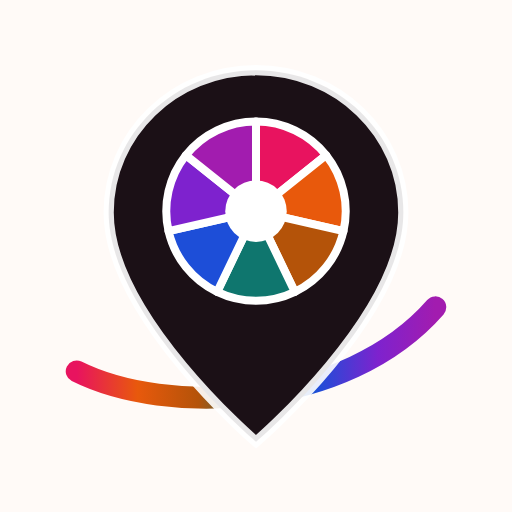
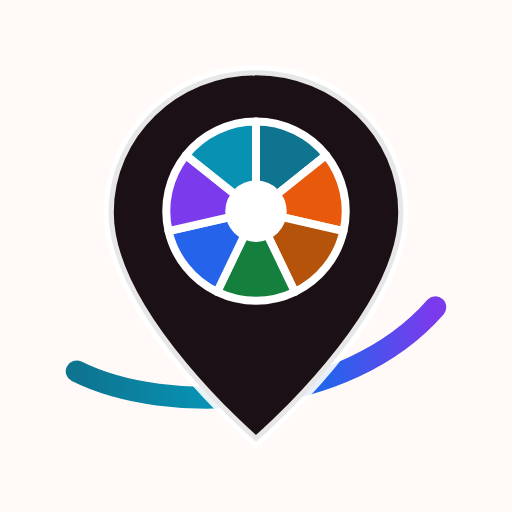
Replace the red-gradient palette with teal and sky blue.
The hot pink was doing too much: links, buttons, headings, eyebrows and
the Health category all leaned on it, which made a place for choosing
feel loud. The interface now anchors on teal (#0E7490) with a sky-blue
companion (#2D9CB-adjacent #1D6FA8 in the button gradient), a cool
neutral line colour and a pale blue tint, on the same warm off-white.

Health becomes teal, Books moves to green, Beauty and Tech take calmer
violets and blues, and Accommodation is cyan. Button labels switch to
an --on-brand variable so both themes clear 4.5:1 contrast. The logo,
icons, share card, manifest theme colour and map "you are here" marker
follow the new palette.

diff --git a/assets/styles.css b/assets/styles.css
@@ -3,11 +3,16 @@
    Display: Sora · Text: Plus Jakarta Sans
    ============================================================ */
 :root{
-  --bg:#FFFAF7; --bg-2:#FFF3EC; --surface:#FFFFFF; --surface-2:#FFF7F3;
-  --fg:#22121A; --fg-2:#3B2530; --muted:#6E5560; --line:#F1DCD4; --line-2:#E7CBC1;
-  --pink:#E8135F; --pink-deep:#B90B4A; --orange:#FF6200; --yellow:#FFC400; --soft:#FFEDE3;
-  --ok:#0B7A46; --ok-soft:#DCF6E8; --warn:#A5560B; --warn-soft:#FFEFD2; --off:#7C6470;
-  --grad:linear-gradient(115deg,#FF1A6C,#FF6200 58%,#FFC400);
+  /* Palette: teal anchor with a sky-blue companion, on a warm off-white.
+     No red or hot pink anywhere in the interface — the warmth now comes
+     from the background and from Food and Home in the category colours. */
+  --bg:#FFFAF7; --bg-2:#F1F8FA; --surface:#FFFFFF; --surface-2:#F3F9FA;
+  --fg:#22121A; --fg-2:#31454E; --muted:#587480; --line:#DCEAEE; --line-2:#C3DBE2;
+  --pink:#0E7490; --pink-deep:#0A5B72; --orange:#2D9CDB; --yellow:#BFE3F0; --soft:#E4F2F6;
+  --ok:#0B7A46; --ok-soft:#DCF6E8; --warn:#A5560B; --warn-soft:#FFEFD2; --off:#5F7A84;
+  /* Both ends of the gradient carry white text at 5:1 or better. */
+  --grad:linear-gradient(115deg,#0E7490,#1D6FA8);
+  --on-brand:#FFFFFF;
   --display:'Outfit','Segoe UI',system-ui,sans-serif;
   --body:'Plus Jakarta Sans','Segoe UI',system-ui,sans-serif;
   --mono:ui-monospace,SFMono-Regular,Menlo,Consolas,monospace;
@@ -18,18 +23,22 @@
   color-scheme:light;
 }
 @media (prefers-color-scheme:dark){:root:not([data-theme="light"]){
-  --bg:#150C11; --bg-2:#1D1118; --surface:#221520; --surface-2:#2A1A24;
-  --fg:#FBEFE9; --fg-2:#F0DCD3; --muted:#C0A5AF; --line:#3A2530; --line-2:#4A303C;
-  --pink:#FF5C93; --pink-deep:#FF7FA9; --soft:#301E28;
-  --ok:#57E39B; --ok-soft:#12321F; --warn:#F5B35A; --warn-soft:#3B2A15; --off:#B79AA5;
+  --bg:#0C1418; --bg-2:#111C21; --surface:#16232A; --surface-2:#1C2C34;
+  --fg:#ECF5F7; --fg-2:#D5E6EA; --muted:#9FB6C0; --line:#273B44; --line-2:#33505B;
+  --pink:#5AC4DC; --pink-deep:#8AD9EC; --soft:#12262D;
+  --ok:#57E39B; --ok-soft:#12321F; --warn:#F5B35A; --warn-soft:#3B2A15; --off:#A3BCC5;
+  --grad:linear-gradient(115deg,#2A9BB4,#4FA8E8);
+  --on-brand:#06222B;
   --sh-1:0 1px 2px rgba(0,0,0,.4),0 8px 24px -12px rgba(0,0,0,.6);
   --sh-2:0 2px 4px rgba(0,0,0,.4),0 18px 40px -18px rgba(0,0,0,.7);
   color-scheme:dark}}
 :root[data-theme="dark"]{
-  --bg:#150C11; --bg-2:#1D1118; --surface:#221520; --surface-2:#2A1A24;
-  --fg:#FBEFE9; --fg-2:#F0DCD3; --muted:#C0A5AF; --line:#3A2530; --line-2:#4A303C;
-  --pink:#FF5C93; --pink-deep:#FF7FA9; --soft:#301E28;
-  --ok:#57E39B; --ok-soft:#12321F; --warn:#F5B35A; --warn-soft:#3B2A15; --off:#B79AA5;
+  --bg:#0C1418; --bg-2:#111C21; --surface:#16232A; --surface-2:#1C2C34;
+  --fg:#ECF5F7; --fg-2:#D5E6EA; --muted:#9FB6C0; --line:#273B44; --line-2:#33505B;
+  --pink:#5AC4DC; --pink-deep:#8AD9EC; --soft:#12262D;
+  --ok:#57E39B; --ok-soft:#12321F; --warn:#F5B35A; --warn-soft:#3B2A15; --off:#A3BCC5;
+  --grad:linear-gradient(115deg,#2A9BB4,#4FA8E8);
+  --on-brand:#06222B;
   --sh-1:0 1px 2px rgba(0,0,0,.4),0 8px 24px -12px rgba(0,0,0,.6);
   --sh-2:0 2px 4px rgba(0,0,0,.4),0 18px 40px -18px rgba(0,0,0,.7);
   color-scheme:dark}
@@ -82,7 +91,7 @@ strong{font-weight:700}
 .row{display:flex;flex-wrap:wrap;gap:.7rem;align-items:center}
 .grad-text{background:var(--grad);-webkit-background-clip:text;background-clip:text;color:transparent}
 /* the wordmark carries all six category colours, in wheel order */
-.brand .grad-text{background:linear-gradient(115deg,#E8135F 0%,#E8590C 24%,#B45309 44%,#0F766E 64%,#1D4ED8 82%,#7E22CE 100%);-webkit-background-clip:text;background-clip:text;color:transparent}
+.brand .grad-text{background:linear-gradient(115deg,#0E7490 0%,#E8590C 17%,#B45309 34%,#15803D 50%,#0891B2 66%,#2563EB 83%,#7C3AED 100%);-webkit-background-clip:text;background-clip:text;color:transparent}
 .h-sm{font-size:1.15rem;margin:2rem 0 .2rem}
 
 /* ---------- buttons / fields ---------- */
@@ -96,8 +105,8 @@ strong{font-weight:700}
 }
 .btn:hover{transform:translateY(-1px)}
 .btn:active{transform:none}
-.btn-primary{background:var(--grad);color:#2A1018;box-shadow:0 6px 18px -8px rgba(232,19,95,.65)}
-.btn-primary:hover{box-shadow:0 12px 26px -10px rgba(232,19,95,.75)}
+.btn-primary{background:var(--grad);color:var(--on-brand);box-shadow:0 6px 18px -8px rgba(14,116,144,.5)}
+.btn-primary:hover{box-shadow:0 12px 26px -10px rgba(14,116,144,.6)}
 .btn-ghost{background:var(--surface);border-color:var(--line-2);color:var(--fg)}
 .btn-ghost:hover{border-color:var(--pink);color:var(--pink)}
 .btn-sm{padding:.5rem .9rem;font-size:.85rem;min-height:38px}
@@ -111,7 +120,7 @@ strong{font-weight:700}
   font:500 .95rem/1.4 var(--body);min-height:44px;
 }
 .field:hover{border-color:var(--line-2)}
-.field:focus{outline:none;border-color:var(--pink);box-shadow:0 0 0 3px rgba(232,19,95,.14)}
+.field:focus{outline:none;border-color:var(--pink);box-shadow:0 0 0 3px rgba(14,116,144,.16)}
 textarea.field{resize:vertical;min-height:96px}
 select.field{appearance:none;background-image:linear-gradient(45deg,transparent 50%,var(--muted) 50%),linear-gradient(135deg,var(--muted) 50%,transparent 50%);background-position:calc(100% - 18px) 50%,calc(100% - 13px) 50%;background-size:5px 5px,5px 5px;background-repeat:no-repeat;padding-right:2.2rem}
 :focus-visible{outline:2.5px solid var(--orange);outline-offset:2px}
@@ -201,7 +210,7 @@ label{display:flex;flex-direction:column;gap:.35rem;font-size:.86rem;font-weight
 @media(max-width:860px){.hero{grid-template-columns:1fr;gap:1.8rem;padding-top:.6rem}}
 .hero h1{letter-spacing:-.035em}
 /* the slogan: uppercase, tracked out, carrying the six category colours */
-.slogan{font-family:var(--display);font-weight:800;font-size:clamp(.95rem,1.7vw,1.2rem);letter-spacing:.16em;text-transform:uppercase;margin-top:.85rem;width:fit-content;background:linear-gradient(115deg,#E8135F 0%,#E8590C 24%,#B45309 44%,#0F766E 64%,#1D4ED8 82%,#7E22CE 100%);-webkit-background-clip:text;background-clip:text;color:transparent}
+.slogan{font-family:var(--display);font-weight:800;font-size:clamp(.95rem,1.7vw,1.2rem);letter-spacing:.16em;text-transform:uppercase;margin-top:.85rem;width:fit-content;background:linear-gradient(115deg,#0E7490 0%,#E8590C 17%,#B45309 34%,#15803D 50%,#0891B2 66%,#2563EB 83%,#7C3AED 100%);-webkit-background-clip:text;background-clip:text;color:transparent}
 .sw{font-family:var(--display);font-weight:600;color:var(--orange);font-size:.98rem;margin-top:.5rem}
 .hero .lead{font-size:1.06rem;margin-top:.9rem}
 .hero .row{margin-top:1.5rem}
@@ -305,7 +314,7 @@ label{display:flex;flex-direction:column;gap:.35rem;font-size:.86rem;font-weight
   transition:border-color .18s,box-shadow .2s;
 }
 .card:hover{box-shadow:var(--sh-1)}
-.card.near{border-color:var(--orange);box-shadow:0 14px 30px -16px rgba(255,98,0,.45)}
+.card.near{border-color:var(--orange);box-shadow:0 14px 30px -16px rgba(45,156,219,.4)}
 .card .top{display:flex;justify-content:space-between;gap:.6rem;align-items:flex-start}
 .card h3{font-size:1.02rem;line-height:1.3}
 .badge{font-size:.71rem;font-weight:800;padding:.22rem .6rem;border-radius:8px;white-space:nowrap;letter-spacing:.02em}
@@ -354,7 +363,7 @@ label{display:flex;flex-direction:column;gap:.35rem;font-size:.86rem;font-weight
 .step{background:var(--surface);border:1px solid var(--line);border-radius:var(--r-lg);padding:1.1rem}
 .stepn{
   display:grid;place-items:center;width:28px;height:28px;border-radius:50%;background:var(--grad);
-  color:#2A1018;font:800 .82rem/1 var(--display);margin-bottom:.6rem;
+  color:var(--on-brand);font:800 .82rem/1 var(--display);margin-bottom:.6rem;
 }
 .step h3{font-size:.95rem}
 .step p{color:var(--muted);font-size:.87rem;margin-top:.25rem;line-height:1.5}

diff --git a/index.html b/index.html
@@ -6,7 +6,7 @@
 <title>Front Belt · Connect, compare and access what is near you in Nairobi</title>
 <meta name="description" content="Front Belt finds what you need near you in Nairobi — clinics and pharmacies, food, beauty, tech and money, books, home and accommodation. Sorted by real distance, with prices, hours, wait times and directions that start from where you are standing.">
 <meta name="author" content="Front Belt Technologies">
-<meta name="theme-color" content="#E8135F">
+<meta name="theme-color" content="#0E7490">
 <meta property="og:type" content="website">
 <meta property="og:site_name" content="Front Belt">
 <meta property="og:title" content="Front Belt · Connect, compare and access what is near you in Nairobi">
@@ -21,7 +21,7 @@
 <meta name="twitter:image" content="https://mwanzia-faith.github.io/Reload_FB/assets/og.png">
 <link rel="icon" type="image/svg+xml" href="assets/logo.svg">
 <link rel="manifest" href="manifest.webmanifest">
-<link rel="mask-icon" href="assets/logo.svg" color="#E8135F">
+<link rel="mask-icon" href="assets/logo.svg" color="#0E7490">
 <link rel="apple-touch-icon" href="assets/apple-touch-icon.png">
 <link rel="preconnect" href="https://fonts.googleapis.com">
 <link rel="preconnect" href="https://fonts.gstatic.com" crossorigin>
@@ -161,19 +161,19 @@
           <p>That is the whole product in three words — and the reason Front Belt is not just another list of phone numbers.</p>
         </div>
         <div class="hsteps">
-          <a class="hstep" href="#/find" style="--cc:#E8135F">
+          <a class="hstep" href="#/find" style="--cc:#0E7490">
             <span class="hstep-ic"><svg class="ic"><use href="#i-route"/></svg></span>
             <span class="hstep-n">01</span>
             <h3>Connect</h3>
             <p>Share your location once. Everything that can serve you shows up — including the shops with no website — because the owners listed themselves here.</p>
           </a>
-          <a class="hstep" href="#/find" style="--cc:#1D4ED8">
+          <a class="hstep" href="#/find" style="--cc:#2563EB">
             <span class="hstep-ic"><svg class="ic"><use href="#i-scale"/></svg></span>
             <span class="hstep-n">02</span>
             <h3>Compare</h3>
             <p>Distance, hours, prices, services and — for clinics — today&rsquo;s wait. Same fields for every place, so the choice takes seconds instead of six tabs.</p>
           </a>
-          <a class="hstep" href="#/find" style="--cc:#0F766E">
+          <a class="hstep" href="#/find" style="--cc:#0891B2">
             <span class="hstep-ic"><svg class="ic"><use href="#i-bolt"/></svg></span>
             <span class="hstep-n">03</span>
             <h3>Access</h3>
@@ -395,22 +395,22 @@
 
       <h2 class="h-sm">What actually makes it different</h2>
       <div class="hsteps aboutgrid">
-        <div class="hstep" style="--cc:#E8135F">
+        <div class="hstep" style="--cc:#0E7490">
           <span class="hstep-ic"><svg class="ic"><use href="#i-refresh"/></svg></span>
           <h3>Maintained, not scraped</h3>
           <p>The business itself keeps the listing current, and every listing shows the date it was last confirmed. A directory nobody maintains is just an old phone book — that is the whole reason for the review queue.</p>
         </div>
-        <div class="hstep" style="--cc:#1D4ED8">
+        <div class="hstep" style="--cc:#2563EB">
           <span class="hstep-ic"><svg class="ic"><use href="#i-scale"/></svg></span>
           <h3>Built for the decision</h3>
           <p>Every place is described the same way — distance, hours, price band, services, and for clinics the wait. Same fields, side by side, so comparing takes seconds instead of six apps.</p>
         </div>
-        <div class="hstep" style="--cc:#0F766E">
+        <div class="hstep" style="--cc:#0891B2">
           <span class="hstep-ic"><svg class="ic"><use href="#i-clock"/></svg></span>
           <h3>Wait times, not guesses</h3>
           <p>Only Health carries a daily status, and it comes from the clinic itself. If a clinic stops updating, the site says so instead of pretending — and after a week the listing steps aside.</p>
         </div>
-        <div class="hstep" style="--cc:#7E22CE">
+        <div class="hstep" style="--cc:#7C3AED">
           <span class="hstep-ic"><svg class="ic"><use href="#i-whatsapp"/></svg></span>
           <h3>Straight to the business</h3>
           <p>Call, WhatsApp or Start — your tap goes to the business, not through us. No booking fee on a visit, no middleman holding the number, no "send a DM and wait".</p>
@@ -420,7 +420,7 @@
           <h3>Open map, open data</h3>
           <p>The map is OpenStreetMap, not Google — so there is no map bill and no licence to lose. Our team also finds missing businesses in the open map data, then phones them before anything goes live.</p>
         </div>
-        <div class="hstep" style="--cc:#A21CAF">
+        <div class="hstep" style="--cc:#15803D">
           <span class="hstep-ic"><svg class="ic"><use href="#i-shield"/></svg></span>
           <h3>Nothing sold that shouldn't be</h3>
           <p>Trust levels are earned and never bought, in any category. No invented reviews, no paid ranking dressed up as a result. A badge answers one question honestly: what did Front Belt actually check?</p>

diff --git a/assets/app.js b/assets/app.js
@@ -310,7 +310,7 @@
             .bindPopup('<strong>' + esc(c.name) + '</strong>' + esc(c.area || ''))
             .addTo(pdMap);
           if (meGeo) {
-            L.circleMarker([meGeo.lat, meGeo.lng], { radius: 7, color: '#fff', weight: 3, fillColor: '#E8135F', fillOpacity: 1 })
+            L.circleMarker([meGeo.lat, meGeo.lng], { radius: 7, color: '#fff', weight: 3, fillColor: '#2563EB', fillOpacity: 1 })
               .bindPopup('<strong>You are here</strong>').addTo(pdMap);
             pts.push([meGeo.lat, meGeo.lng]);
           }
@@ -680,7 +680,7 @@
   function renderChips() {
     var box = $('cat-chips');
     if (!box) return;
-    var html = '<a href="#/find"' + (!activeCat ? ' aria-current="true"' : '') + ' style="--cc:#E8135F">' +
+    var html = '<a href="#/find"' + (!activeCat ? ' aria-current="true"' : '') + ' style="--cc:#0E7490">' +
       '<svg class="ic"><use href="#i-grid"/></svg> All</a>';
     html += CATS.map(function (k) {
       return '<a href="#/c/' + k.id + '"' + (activeCat === k.id ? ' aria-current="true"' : '') +
@@ -883,9 +883,9 @@
     if (meGeo) {
       L.circle([meGeo.lat, meGeo.lng], {
         radius: Math.max(60, Math.min(meGeo.acc || 80, 400)),
-        color: '#E8135F', fillColor: '#E8135F', fillOpacity: .12, weight: 1
+        color: '#2563EB', fillColor: '#2563EB', fillOpacity: .12, weight: 1
       }).addTo(mapLayer);
-      L.circleMarker([meGeo.lat, meGeo.lng], { radius: 7, color: '#fff', weight: 3, fillColor: '#E8135F', fillOpacity: 1 })
+      L.circleMarker([meGeo.lat, meGeo.lng], { radius: 7, color: '#fff', weight: 3, fillColor: '#2563EB', fillOpacity: 1 })
         .bindPopup('<strong>You are here</strong>±' + Math.max(10, Math.round(meGeo.acc || 0)) + ' m')
         .addTo(mapLayer);
       pts.push([meGeo.lat, meGeo.lng]);

diff --git a/assets/data.js b/assets/data.js
@@ -52,7 +52,7 @@ window.FB_DATA = {
   categories: [
     {
       id: "health", label: "Health", tag: "Clinics, pharmacies, dental and labs",
-      icon: "i-clinic", color: "#E8135F", health: true,
+      icon: "i-clinic", color: "#0E7490", health: true,
       types: ["Clinic", "Pharmacy", "Hospital", "Dental clinic", "Laboratory", "Physiotherapy", "Optical"]
     },
     {
@@ -62,17 +62,17 @@ window.FB_DATA = {
     },
     {
       id: "beauty", label: "Beauty", tag: "Salons, kinyozi, spa and nails",
-      icon: "i-beauty", color: "#7E22CE", health: false,
+      icon: "i-beauty", color: "#7C3AED", health: false,
       types: ["Salon", "Kinyozi", "Spa", "Nail parlour", "Barber", "Makeup studio"]
     },
     {
       id: "tech", label: "Tech & Money", tag: "Phones, M-Pesa agents, banks and microfinance",
-      icon: "i-tech", color: "#1D4ED8", health: false,
+      icon: "i-tech", color: "#2563EB", health: false,
       types: ["Phone shop", "Electrical shop", "Phone accessories", "Airtel agent", "M-Pesa agent", "Airtime & bundles", "Bank", "Microfinance", "Sacco"]
     },
     {
       id: "books", label: "Books", tag: "Bookshops, libraries and stationery",
-      icon: "i-books", color: "#0F766E", health: false,
+      icon: "i-books", color: "#15803D", health: false,
       types: ["Bookshop", "Library", "Stationery", "Printing & photocopy"]
     },
     {
@@ -82,7 +82,7 @@ window.FB_DATA = {
     },
     {
       id: "stay", label: "Accommodation", tag: "Hotels, lodges, hostels and guest houses",
-      icon: "i-stay", color: "#A21CAF", health: false,
+      icon: "i-stay", color: "#0891B2", health: false,
       types: ["Hotel", "Lodge", "Guest house", "Hostel", "Serviced apartment", "Conference venue"]
     }
   ],
